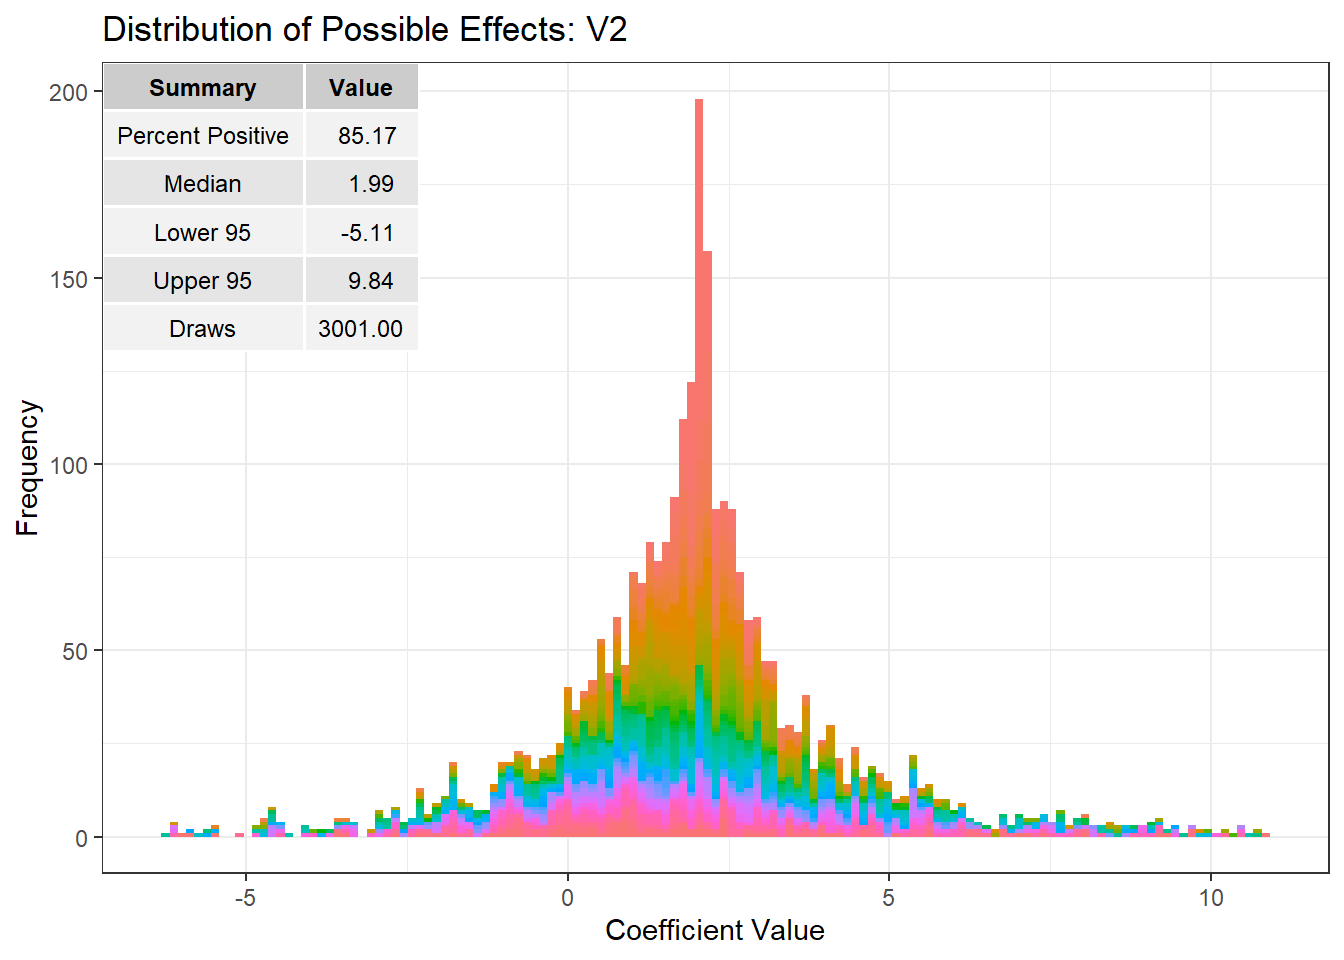
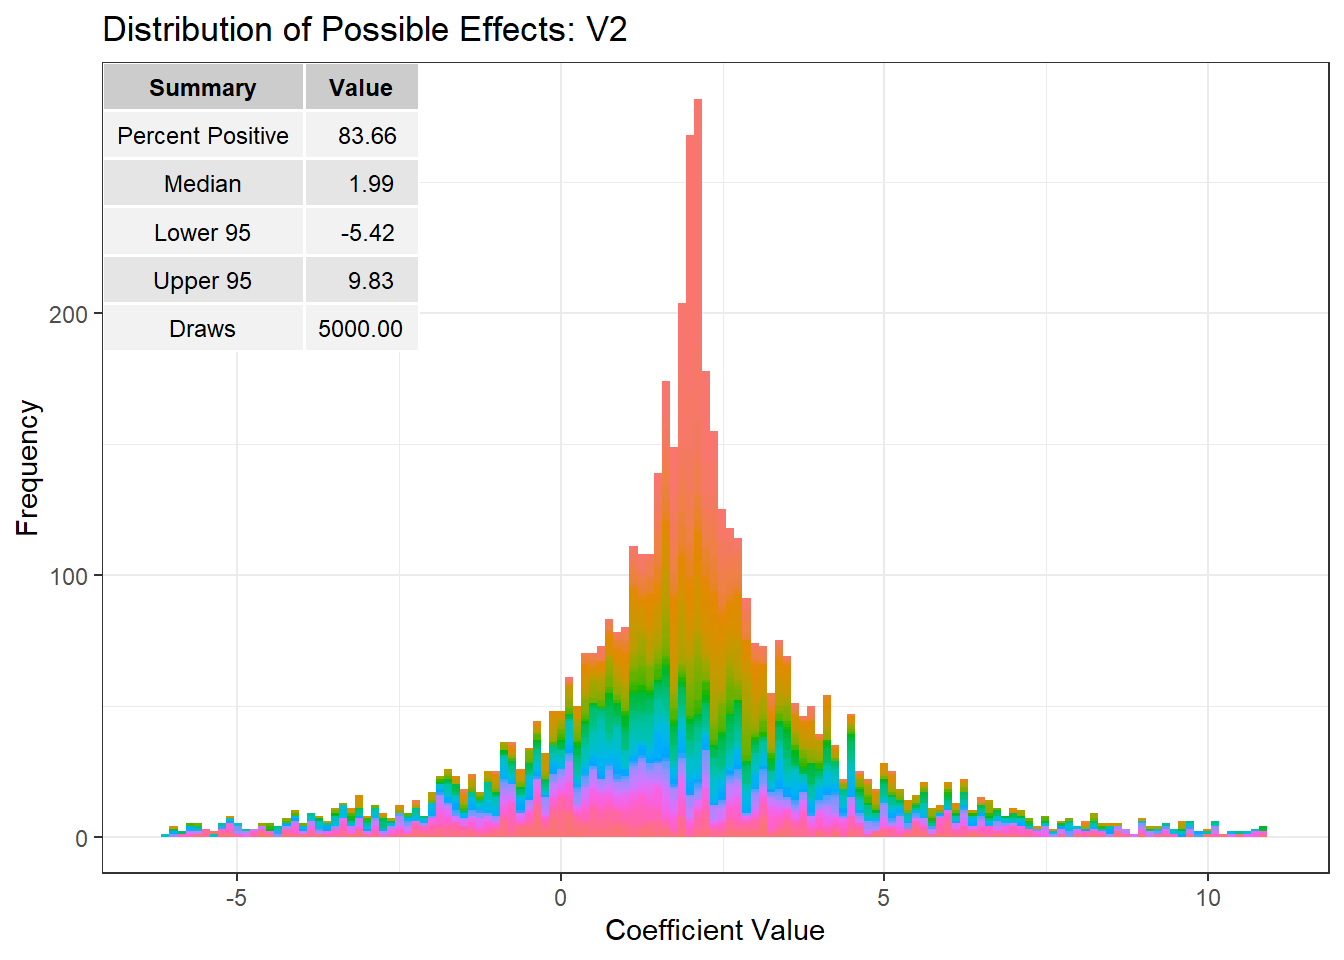
update README

diff --git a/README.md b/README.md
@@ -15,8 +15,135 @@ uncertainty other than random error and so do not express these
 additional doubts. The package impliments a “near Bayesian” method of
 sensitivity analysis which samples uniformly from the set of valid
 control functions under ignorance to build a distribution of possible
-causal effects. The package provides graphical tools for assessing the
+causal effects. It also provides graphical tools for assessing the
 sensitivity of one’s results to the threat of hidden biases.
+
+### What does it do?
+
+Regardless of the source a regressor-error dependency is a
+regressor-error dependency and can be dealt with in the same manner;
+namely, via control functions. Unlike a number of existing forms of
+sensitivity analysis which treat omitted variables as one of many
+sources of endogeneity, the control function approach treats all
+endogeneity as an omitted variables problem.
+
+A simple example aids intuition. Suppose that we are interested in the
+effect of some treatment(s)
+![\\mathbf{X}](https://latex.codecogs.com/png.latex?%5Cmathbf%7BX%7D
+"\\mathbf{X}") on outcome
+![\\mathbf{Y}](https://latex.codecogs.com/png.latex?%5Cmathbf%7BY%7D
+"\\mathbf{Y}"). Assuming constant effects, linearity, and including the
+intercept in the design matrix we can use the common linear
+specification
+
+  
+![\\mathbf{Y} = \\mathbf{X\\beta} +
+\\mathbf{\\epsilon^\*}](https://latex.codecogs.com/png.latex?%5Cmathbf%7BY%7D%20%3D%20%5Cmathbf%7BX%5Cbeta%7D%20%2B%20%5Cmathbf%7B%5Cepsilon%5E%2A%7D
+"\\mathbf{Y} = \\mathbf{X\\beta} + \\mathbf{\\epsilon^*}")  
+
+where
+![\\mathbf{\\epsilon^\*}](https://latex.codecogs.com/png.latex?%5Cmathbf%7B%5Cepsilon%5E%2A%7D
+"\\mathbf{\\epsilon^*}") is a latent random variable and
+![\\beta](https://latex.codecogs.com/png.latex?%5Cbeta "\\beta") is the
+ATE. Regardless of the source, regressor-error dependencies manifest
+such that
+E![(\\mathbf{\\epsilon^\*}|\\mathbf{X})=0](https://latex.codecogs.com/png.latex?%28%5Cmathbf%7B%5Cepsilon%5E%2A%7D%7C%5Cmathbf%7BX%7D%29%3D0
+"(\\mathbf{\\epsilon^*}|\\mathbf{X})=0") and so
+
+  
+![\\begin{align\*}
+\\hat{\\mathbf{\\beta}} &=
+(\\mathbf{X}^T\\mathbf{X})^{-1}\\mathbf{X}^T\\mathbf{Y} \\\\
+&= \\mathbf{\\beta} +
+(\\mathbf{X}^T\\mathbf{X})^{-1}\\mathbf{X}^T\\mathbf{\\epsilon^\*} \\neq
+\\beta
+\\end{align\*}](https://latex.codecogs.com/png.latex?%5Cbegin%7Balign%2A%7D%0A%20%20%20%20%5Chat%7B%5Cmathbf%7B%5Cbeta%7D%7D%20%26%3D%20%28%5Cmathbf%7BX%7D%5ET%5Cmathbf%7BX%7D%29%5E%7B-1%7D%5Cmathbf%7BX%7D%5ET%5Cmathbf%7BY%7D%20%5C%5C%0A%20%20%20%20%26%3D%20%5Cmathbf%7B%5Cbeta%7D%20%2B%20%28%5Cmathbf%7BX%7D%5ET%5Cmathbf%7BX%7D%29%5E%7B-1%7D%5Cmathbf%7BX%7D%5ET%5Cmathbf%7B%5Cepsilon%5E%2A%7D%20%5Cneq%20%5Cbeta%0A%5Cend%7Balign%2A%7D
+"\\begin{align*}
+    \\hat{\\mathbf{\\beta}} &= (\\mathbf{X}^T\\mathbf{X})^{-1}\\mathbf{X}^T\\mathbf{Y} \\\\
+    &= \\mathbf{\\beta} + (\\mathbf{X}^T\\mathbf{X})^{-1}\\mathbf{X}^T\\mathbf{\\epsilon^*} \\neq \\beta
+\\end{align*}")  
+
+The basic idea of a control function is to construct, usually using
+instrumental variables, some
+![\\mathbf{V}](https://latex.codecogs.com/png.latex?%5Cmathbf%7BV%7D
+"\\mathbf{V}") for which
+E![(\\mathbf{\\epsilon^\*}|\\mathbf{X},\\mathbf{V})=0](https://latex.codecogs.com/png.latex?%28%5Cmathbf%7B%5Cepsilon%5E%2A%7D%7C%5Cmathbf%7BX%7D%2C%5Cmathbf%7BV%7D%29%3D0
+"(\\mathbf{\\epsilon^*}|\\mathbf{X},\\mathbf{V})=0") and include that
+term as a regressor to purge the dependency. We are usually in the
+position where no such control function can be constructed. Regardless,
+we know that with the correct control function the regression of
+![\\mathbf{Y}](https://latex.codecogs.com/png.latex?%5Cmathbf%7BY%7D
+"\\mathbf{Y}") on
+![\\mathbf{Z}=(\\mathbf{X},\\mathbf{V})](https://latex.codecogs.com/png.latex?%5Cmathbf%7BZ%7D%3D%28%5Cmathbf%7BX%7D%2C%5Cmathbf%7BV%7D%29
+"\\mathbf{Z}=(\\mathbf{X},\\mathbf{V})") yields coefficients
+
+  
+![\\begin{align\*}
+\\hat{\\mathbf{\\beta}} &=
+(\\mathbf{Z}^T\\mathbf{Z})^{-1}\\mathbf{Z}^T\\mathbf{Y}
+\\end{align\*}](https://latex.codecogs.com/png.latex?%5Cbegin%7Balign%2A%7D%0A%20%20%20%20%5Chat%7B%5Cmathbf%7B%5Cbeta%7D%7D%20%26%3D%20%28%5Cmathbf%7BZ%7D%5ET%5Cmathbf%7BZ%7D%29%5E%7B-1%7D%5Cmathbf%7BZ%7D%5ET%5Cmathbf%7BY%7D%0A%5Cend%7Balign%2A%7D
+"\\begin{align*}
+    \\hat{\\mathbf{\\beta}} &= (\\mathbf{Z}^T\\mathbf{Z})^{-1}\\mathbf{Z}^T\\mathbf{Y}
+\\end{align*}")  
+
+which contains coefficients carrying a causal interpretation.
+
+So what we will do is sample uniformly from the set of valid control
+functions to build out the distribution of causal effects given our
+ignorance. An algorithm to generate one such randomly drawn control
+function is the following:
+
+![](C:\\Users\\Schwarz\\Desktop\\algorithm.PNG)
+
+This algorithm effectively repeatedly uses the Cholesky decomposition to
+build up a valid augmented covariance matrix from which quantities of
+interest can be calculated.
+
+To apply this to regression, note that we may rearrange the augmented
+covariance matrix as
+
+  
+![\\Sigma^\* &= \\begin{bmatrix}
+\\mathbf{K}\_{\\Tilde{\\mathbf{Z}}\\Tilde{\\mathbf{Z}}} &
+\\mathbf{K}\_{\\Tilde{\\mathbf{Z}}\\mathbf{Y}}\\\\ 
+\\mathbf{K}\_{\\mathbf{Y}\\Tilde{\\mathbf{Z}}} & \\mathbf{K\_{YY}}
+\\end{bmatrix}](https://latex.codecogs.com/png.latex?%5CSigma%5E%2A%20%26%3D%20%5Cbegin%7Bbmatrix%7D%0A%20%20%20%20%20%20%20%20%20%20%20%20%20%20%20%20%5Cmathbf%7BK%7D_%7B%5CTilde%7B%5Cmathbf%7BZ%7D%7D%5CTilde%7B%5Cmathbf%7BZ%7D%7D%7D%20%26%20%5Cmathbf%7BK%7D_%7B%5CTilde%7B%5Cmathbf%7BZ%7D%7D%5Cmathbf%7BY%7D%7D%5C%5C%20%0A%20%20%20%20%20%20%20%20%20%20%20%20%20%20%20%20%5Cmathbf%7BK%7D_%7B%5Cmathbf%7BY%7D%5CTilde%7B%5Cmathbf%7BZ%7D%7D%7D%20%26%20%5Cmathbf%7BK_%7BYY%7D%7D%0A%5Cend%7Bbmatrix%7D
+"\\Sigma^* &= \\begin{bmatrix}
+                \\mathbf{K}_{\\Tilde{\\mathbf{Z}}\\Tilde{\\mathbf{Z}}} & \\mathbf{K}_{\\Tilde{\\mathbf{Z}}\\mathbf{Y}}\\\\ 
+                \\mathbf{K}_{\\mathbf{Y}\\Tilde{\\mathbf{Z}}} & \\mathbf{K_{YY}}
+\\end{bmatrix}")  
+
+with ![\\tilde{\\mathbf{Z}} =
+(\\mathbf{X},\\tilde{\\mathbf{V}})](https://latex.codecogs.com/png.latex?%5Ctilde%7B%5Cmathbf%7BZ%7D%7D%20%3D%20%28%5Cmathbf%7BX%7D%2C%5Ctilde%7B%5Cmathbf%7BV%7D%7D%29
+"\\tilde{\\mathbf{Z}} = (\\mathbf{X},\\tilde{\\mathbf{V}})") where
+![\\tilde{\\mathbf{V}}](https://latex.codecogs.com/png.latex?%5Ctilde%7B%5Cmathbf%7BV%7D%7D
+"\\tilde{\\mathbf{V}}") is the control function defined by one run of
+Algorithm 1. The coefficients from the regression of
+![\\mathbf{Y}](https://latex.codecogs.com/png.latex?%5Cmathbf%7BY%7D
+"\\mathbf{Y}") on
+![\\mathbf{X}](https://latex.codecogs.com/png.latex?%5Cmathbf%7BX%7D
+"\\mathbf{X}") and
+![\\tilde{\\mathbf{V}}](https://latex.codecogs.com/png.latex?%5Ctilde%7B%5Cmathbf%7BV%7D%7D
+"\\tilde{\\mathbf{V}}") are given by
+
+  
+![\\tilde{\\mathbf{\\beta}} =
+\\mathbf{K}^{-1}\_{\\tilde{\\mathbf{Z}}\\tilde{\\mathbf{Z}}}\\mathbf{K}\_{\\tilde{\\mathbf{Z}}\\mathbf{Y}}](https://latex.codecogs.com/png.latex?%5Ctilde%7B%5Cmathbf%7B%5Cbeta%7D%7D%20%3D%20%5Cmathbf%7BK%7D%5E%7B-1%7D_%7B%5Ctilde%7B%5Cmathbf%7BZ%7D%7D%5Ctilde%7B%5Cmathbf%7BZ%7D%7D%7D%5Cmathbf%7BK%7D_%7B%5Ctilde%7B%5Cmathbf%7BZ%7D%7D%5Cmathbf%7BY%7D%7D
+"\\tilde{\\mathbf{\\beta}} = \\mathbf{K}^{-1}_{\\tilde{\\mathbf{Z}}\\tilde{\\mathbf{Z}}}\\mathbf{K}_{\\tilde{\\mathbf{Z}}\\mathbf{Y}}")  
+
+so one never actually have to generate a realization of
+![\\tilde{V}](https://latex.codecogs.com/png.latex?%5Ctilde%7BV%7D
+"\\tilde{V}") once one has the covariances by which it is defined. We
+may similarly derive the R-squared with this information alone:
+
+  
+![\\tilde{R}^2 =
+\\frac{\\mathbf{K}^{T}\_{\\tilde{\\mathbf{Z}}\\mathbf{Y}}\\mathbf{K}^{-1}\_{\\tilde{\\mathbf{Z}}\\tilde{\\mathbf{Z}}}\\mathbf{K}\_{\\tilde{\\mathbf{Z}}\\mathbf{Y}}}{\\mathbf{K}\_{\\mathbf{Y}\\mathbf{Y}}}](https://latex.codecogs.com/png.latex?%5Ctilde%7BR%7D%5E2%20%3D%20%5Cfrac%7B%5Cmathbf%7BK%7D%5E%7BT%7D_%7B%5Ctilde%7B%5Cmathbf%7BZ%7D%7D%5Cmathbf%7BY%7D%7D%5Cmathbf%7BK%7D%5E%7B-1%7D_%7B%5Ctilde%7B%5Cmathbf%7BZ%7D%7D%5Ctilde%7B%5Cmathbf%7BZ%7D%7D%7D%5Cmathbf%7BK%7D_%7B%5Ctilde%7B%5Cmathbf%7BZ%7D%7D%5Cmathbf%7BY%7D%7D%7D%7B%5Cmathbf%7BK%7D_%7B%5Cmathbf%7BY%7D%5Cmathbf%7BY%7D%7D%7D
+"\\tilde{R}^2 = \\frac{\\mathbf{K}^{T}_{\\tilde{\\mathbf{Z}}\\mathbf{Y}}\\mathbf{K}^{-1}_{\\tilde{\\mathbf{Z}}\\tilde{\\mathbf{Z}}}\\mathbf{K}_{\\tilde{\\mathbf{Z}}\\mathbf{Y}}}{\\mathbf{K}_{\\mathbf{Y}\\mathbf{Y}}}")  
+
+By drawing thousands of these control functions we get thousands of
+coefficient vectors and R-squared values which represent the additional
+uncertainty in our results to the threat of hidden biases.
 
 ### How do I get it?
 
@@ -85,7 +212,8 @@ analysis. The number of draws can be set with `nsims` and the number of
 cores for parallel computation with `n.cores`.
 
 ``` r
-dope <- DOPE(mod, nsims = 3000, n.cores = parallel::detectCores())
+set.seed(6161918)
+dope <- DOPE(mod, nsims = 5000, n.cores = parallel::detectCores())
 ```
 
 The result is a dataframe of `nsims` + 1 observations with columns for
@@ -102,11 +230,12 @@ plot_DOPE(dope,"V2") + ggtitle("Distribution of Possible Effects: V2")
 
 <img src="README_figs/README-unnamed-chunk-6-1.png" width="672" />
 
-In this example, based upon 3000 draws 84.23% of the estimated effects
-are greater than zero with a 95% credible interval of -4.58 to 9.13. The
-naive estimate is indicated in red. Because these quantities are
-generated from random draws it is always a good idea to set a seed,
-although they stabalize with a larger amount of random draws.
+In this example, based upon 5000 draws around 84% of the estimated
+effects are greater than zero with a 95% credible interval given by the
+lower and upper 95 bounds. The naive estimate is indicated in red. Since
+the distribution is simulated setting a seed and using a large number of
+draws is highly recommended, but these quantities usually become stable
+with over 20,000 draws.
 
 We can get a little bit more information from the plot by shading based
 upon the R-squared from each regression and turning off the naive
@@ -139,7 +268,9 @@ library(wesanderson)
 
 p <- plot_DOPE(dope,"V2",shade=T,include_naive = F) + ggtitle("Distribution of Possible Effects: V2") 
 
-st <- try(ggsave("not_actually_output.pdf",p + scale_fill_manual(values = "black")),silent=T)
+file <- tempfile()
+st <- try(ggsave(file,device="pdf",p + scale_fill_manual(values = "black")),silent=T)
+unlink(file)
 n_fills <- as.numeric(regmatches(st,gregexpr("[[:digit:]]+",st))[[1]][1])
 
 p + scale_fill_manual(values=colorRampPalette(wes_palette("Zissou1"))(n_fills))
@@ -165,3 +296,106 @@ world is more deterministic than reflected in my model.” This is
 represented by the crossed points and increases uncertainty until the
 lower pessimistic bound on effect certainty. The proportion of draws
 rejected by this lower thresholding is given by the filled diamonds.
+
+### Notes on Development Path
+
+There are a number of additional features that will be added to the
+package over time. Of particular interest is adding additional
+facilities for converting regression results into a format which may be
+easily used with the package. Currently only linear models and GLMs are
+supported, the latter requiring to be fit with the `DOPE_irls` function
+which retains the IRLS weights and then subsequently “whitens” the data
+to be fit with `lm`.
+
+By staying firmly within a regression framework the package can be
+extended to conduct sensitivity analysis on a wite array of
+semiparametric distributional regression models as well as sampling
+variability. For example, a bootstrap step could be implimented by
+noting that ![n](https://latex.codecogs.com/png.latex?n "n") samples
+from ![n](https://latex.codecogs.com/png.latex?n "n") observations can
+be written as an ![n \\times
+n](https://latex.codecogs.com/png.latex?n%20%5Ctimes%20n "n \\times n")
+matrix
+![\\mathbf{Q}](https://latex.codecogs.com/png.latex?%5Cmathbf%7BQ%7D
+"\\mathbf{Q}"). For observed data
+![\\mathbf{R}=(\\mathbf{Y},\\mathbf{X})](https://latex.codecogs.com/png.latex?%5Cmathbf%7BR%7D%3D%28%5Cmathbf%7BY%7D%2C%5Cmathbf%7BX%7D%29
+"\\mathbf{R}=(\\mathbf{Y},\\mathbf{X})") a bootstrap replicate is simply
+![\\mathbf{R}^\*=\\mathbf{QR}](https://latex.codecogs.com/png.latex?%5Cmathbf%7BR%7D%5E%2A%3D%5Cmathbf%7BQR%7D
+"\\mathbf{R}^*=\\mathbf{QR}"), the least squares estimate being
+
+  
+![\\beta^\* = (\\mathbf{X}^T \\mathbf{Q}^T \\mathbf{Q} \\mathbf{X})^{-1}
+\\mathbf{X}^T \\mathbf{Q}^T
+\\mathbf{QY}](https://latex.codecogs.com/png.latex?%5Cbeta%5E%2A%20%3D%20%28%5Cmathbf%7BX%7D%5ET%20%5Cmathbf%7BQ%7D%5ET%20%5Cmathbf%7BQ%7D%20%5Cmathbf%7BX%7D%29%5E%7B-1%7D%20%5Cmathbf%7BX%7D%5ET%20%5Cmathbf%7BQ%7D%5ET%20%5Cmathbf%7BQY%7D
+"\\beta^* = (\\mathbf{X}^T \\mathbf{Q}^T \\mathbf{Q} \\mathbf{X})^{-1} \\mathbf{X}^T \\mathbf{Q}^T \\mathbf{QY}")  
+
+that is, a weighted least squares estimate. We can leverage the notion
+of whitening from Aitken estimators like generalized least squares
+
+  
+![\\hat{\\beta} = (\\mathbf{X}^T \\Omega^{-1} \\mathbf{X})^T
+\\mathbf{X}^T \\Omega^{-1}
+\\mathbf{Y}](https://latex.codecogs.com/png.latex?%5Chat%7B%5Cbeta%7D%20%3D%20%28%5Cmathbf%7BX%7D%5ET%20%5COmega%5E%7B-1%7D%20%5Cmathbf%7BX%7D%29%5ET%20%5Cmathbf%7BX%7D%5ET%20%5COmega%5E%7B-1%7D%20%5Cmathbf%7BY%7D
+"\\hat{\\beta} = (\\mathbf{X}^T \\Omega^{-1} \\mathbf{X})^T \\mathbf{X}^T \\Omega^{-1} \\mathbf{Y}")  
+
+and linearly transform the data where
+![\\Omega](https://latex.codecogs.com/png.latex?%5COmega "\\Omega") is
+Cholesky decomposed into
+![\\mathbf{CC}^T](https://latex.codecogs.com/png.latex?%5Cmathbf%7BCC%7D%5ET
+"\\mathbf{CC}^T") and one regresses ![\\mathbf{Y}^\* = \\mathbf{C}^{-1}
+\\mathbf{Y}](https://latex.codecogs.com/png.latex?%5Cmathbf%7BY%7D%5E%2A%20%3D%20%5Cmathbf%7BC%7D%5E%7B-1%7D%20%5Cmathbf%7BY%7D
+"\\mathbf{Y}^* = \\mathbf{C}^{-1} \\mathbf{Y}") on ![\\mathbf{X}^\* =
+\\mathbf{C}^{-1}
+\\mathbf{X}](https://latex.codecogs.com/png.latex?%5Cmathbf%7BX%7D%5E%2A%20%3D%20%5Cmathbf%7BC%7D%5E%7B-1%7D%20%5Cmathbf%7BX%7D
+"\\mathbf{X}^* = \\mathbf{C}^{-1} \\mathbf{X}") as an equivalent
+estimator.
+
+Splines, kernels, and random effects with quadratic penalties have the
+form
+
+  
+![\\hat{\\beta} &= (\\mathbf{X}^T\\mathbf{X} + \\lambda
+\\mathbf{D}^T\\mathbf{D})^{-1}
+\\mathbf{X}^Ty](https://latex.codecogs.com/png.latex?%5Chat%7B%5Cbeta%7D%20%26%3D%20%28%5Cmathbf%7BX%7D%5ET%5Cmathbf%7BX%7D%20%2B%20%5Clambda%20%5Cmathbf%7BD%7D%5ET%5Cmathbf%7BD%7D%29%5E%7B-1%7D%20%5Cmathbf%7BX%7D%5ETy
+"\\hat{\\beta} &= (\\mathbf{X}^T\\mathbf{X} + \\lambda \\mathbf{D}^T\\mathbf{D})^{-1} \\mathbf{X}^Ty")  
+for some smoothing parameter
+![\\lambda](https://latex.codecogs.com/png.latex?%5Clambda "\\lambda"),
+penalty matrix ![D](https://latex.codecogs.com/png.latex?D "D"). With
+the data augmentation trick this can be shown to be identical to the
+regression of   
+![\\begin{align\*}
+\\tilde{\\mathbf{Y}} = \\begin{bmatrix} 
+y \\\\
+0
+\\end{bmatrix} \\; \\; \\text{ on } \\tilde{\\mathbf{X}} =
+\\begin{bmatrix}
+\\mathbf{X}\\\\
+\\sqrt{\\lambda} \\mathbf{D}
+\\end{bmatrix}
+\\end{align\*}](https://latex.codecogs.com/png.latex?%5Cbegin%7Balign%2A%7D%0A%20%20%20%20%20%20%20%20%20%20%20%20%5Ctilde%7B%5Cmathbf%7BY%7D%7D%20%3D%20%5Cbegin%7Bbmatrix%7D%20%0A%20%20%20%20%20%20%20%20%20%20%20%20%20%20%20%20%20%20%20%20%20%20%20%20%20%20%20%20%20%20%20%20y%20%5C%5C%0A%20%20%20%20%20%20%20%20%20%20%20%20%20%20%20%20%20%20%20%20%20%20%20%20%20%20%20%20%20%20%20%200%0A%20%20%20%20%20%20%20%20%20%20%20%20%20%20%20%20%20%20%20%20%20%20%20%20%5Cend%7Bbmatrix%7D%20%5C%3B%20%5C%3B%20%5Ctext%7B%20on%20%7D%20%5Ctilde%7B%5Cmathbf%7BX%7D%7D%20%3D%20%5Cbegin%7Bbmatrix%7D%0A%20%20%20%20%20%20%20%20%20%20%20%20%20%20%20%20%20%20%20%20%20%20%20%20%20%20%20%20%20%20%20%20%20%20%20%20%20%20%20%20%20%20%20%20%20%20%20%20%20%20%20%20%20%20%20%20%20%20%20%20%20%20%20%20%20%20%20%20%20%20%20%20%5Cmathbf%7BX%7D%5C%5C%0A%20%20%20%20%20%20%20%20%20%20%20%20%20%20%20%20%20%20%20%20%20%20%20%20%20%20%20%20%20%20%20%20%20%20%20%20%20%20%20%20%20%20%20%20%20%20%20%20%20%20%20%20%20%20%20%20%20%20%20%20%20%20%20%20%20%20%20%20%20%20%20%20%5Csqrt%7B%5Clambda%7D%20%5Cmathbf%7BD%7D%0A%20%20%20%20%20%20%20%20%20%20%20%20%20%20%20%20%20%20%20%20%20%20%20%20%20%20%20%20%20%20%20%20%20%20%20%20%20%20%20%20%20%20%20%20%20%20%20%20%20%20%20%20%20%20%20%20%20%20%20%20%20%20%20%20%20%20%20%20%5Cend%7Bbmatrix%7D%0A%20%20%20%20%20%20%20%20%5Cend%7Balign%2A%7D
+"\\begin{align*}
+            \\tilde{\\mathbf{Y}} = \\begin{bmatrix} 
+                                y \\\\
+                                0
+                        \\end{bmatrix} \\; \\; \\text{ on } \\tilde{\\mathbf{X}} = \\begin{bmatrix}
+                                                                        \\mathbf{X}\\\\
+                                                                        \\sqrt{\\lambda} \\mathbf{D}
+                                                                    \\end{bmatrix}
+        \\end{align*}")  
+that is
+
+  
+![\\hat{\\beta} = (\\tilde{\\mathbf{X}}^T \\tilde{\\mathbf{X}})^T
+\\tilde{\\mathbf{X}}^T
+\\tilde{\\mathbf{Y}}](https://latex.codecogs.com/png.latex?%5Chat%7B%5Cbeta%7D%20%3D%20%28%5Ctilde%7B%5Cmathbf%7BX%7D%7D%5ET%20%5Ctilde%7B%5Cmathbf%7BX%7D%7D%29%5ET%20%5Ctilde%7B%5Cmathbf%7BX%7D%7D%5ET%20%5Ctilde%7B%5Cmathbf%7BY%7D%7D
+"\\hat{\\beta} = (\\tilde{\\mathbf{X}}^T \\tilde{\\mathbf{X}})^T \\tilde{\\mathbf{X}}^T \\tilde{\\mathbf{Y}}")  
+
+More generally, semiparametric regression models often have the form
+
+  
+![\\hat{\\beta} = (\\mathbf{X}^T \\mathbf{W} \\mathbf{X} + \\lambda
+\\mathbf{D}^T \\mathbf{D})^T \\mathbf{X}^T \\mathbf{W}
+\\mathbf{Y}](https://latex.codecogs.com/png.latex?%5Chat%7B%5Cbeta%7D%20%3D%20%28%5Cmathbf%7BX%7D%5ET%20%5Cmathbf%7BW%7D%20%5Cmathbf%7BX%7D%20%2B%20%5Clambda%20%5Cmathbf%7BD%7D%5ET%20%5Cmathbf%7BD%7D%29%5ET%20%5Cmathbf%7BX%7D%5ET%20%5Cmathbf%7BW%7D%20%5Cmathbf%7BY%7D
+"\\hat{\\beta} = (\\mathbf{X}^T \\mathbf{W} \\mathbf{X} + \\lambda \\mathbf{D}^T \\mathbf{D})^T \\mathbf{X}^T \\mathbf{W} \\mathbf{Y}")  
+which may be put into the desired format by first applying the data
+augmentation trick and then whitening.
